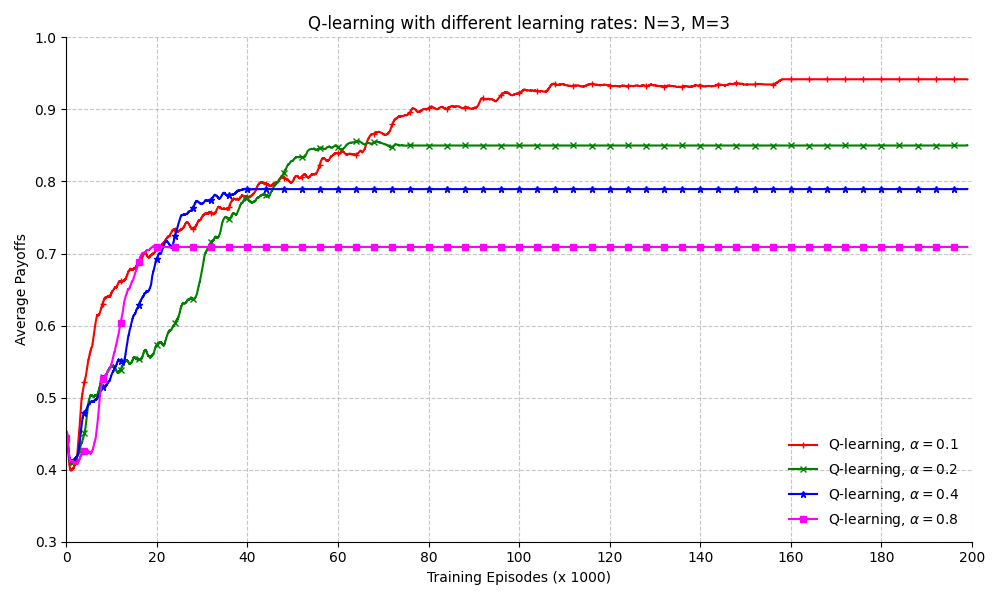
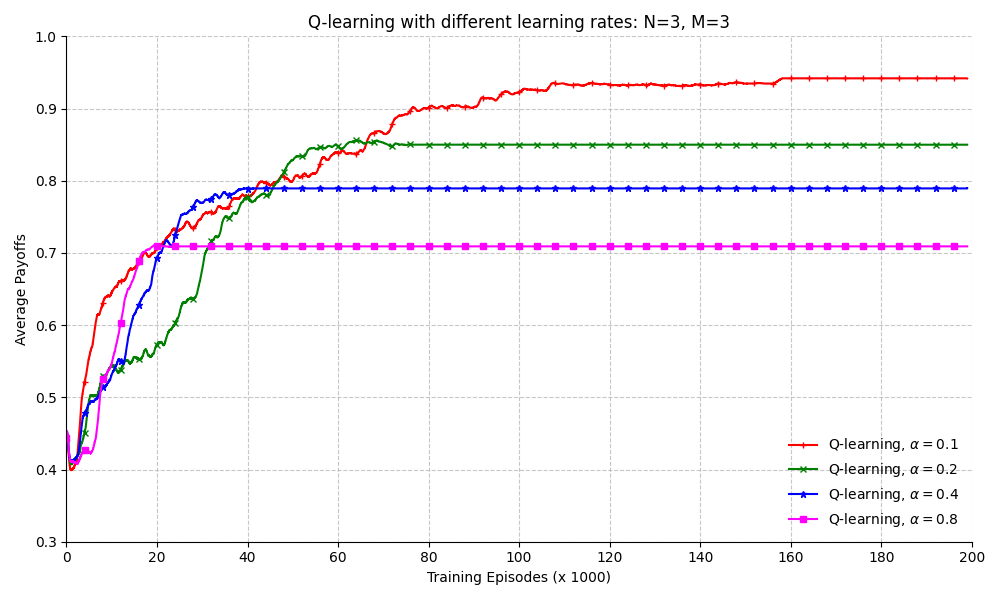
Set seed for consistent randomness

diff --git a/main.py b/main.py
@@ -6,8 +6,12 @@ from src.agents.ck import CKAgent
 from src.agents.colf import CoLFAgent
 from src.agents.ck_colf import CKCoLFAgent
 from src.helper_functions import save_experiment_data, load_experiment_data
+import numpy as np
 
 def main():
+    # set seed for reproducibility
+    np.random.seed(42)
+    
     # Experimental Setup
     env = MASDEnv(N=3, M=3, k=float(2/3))
     episodes = 200000
